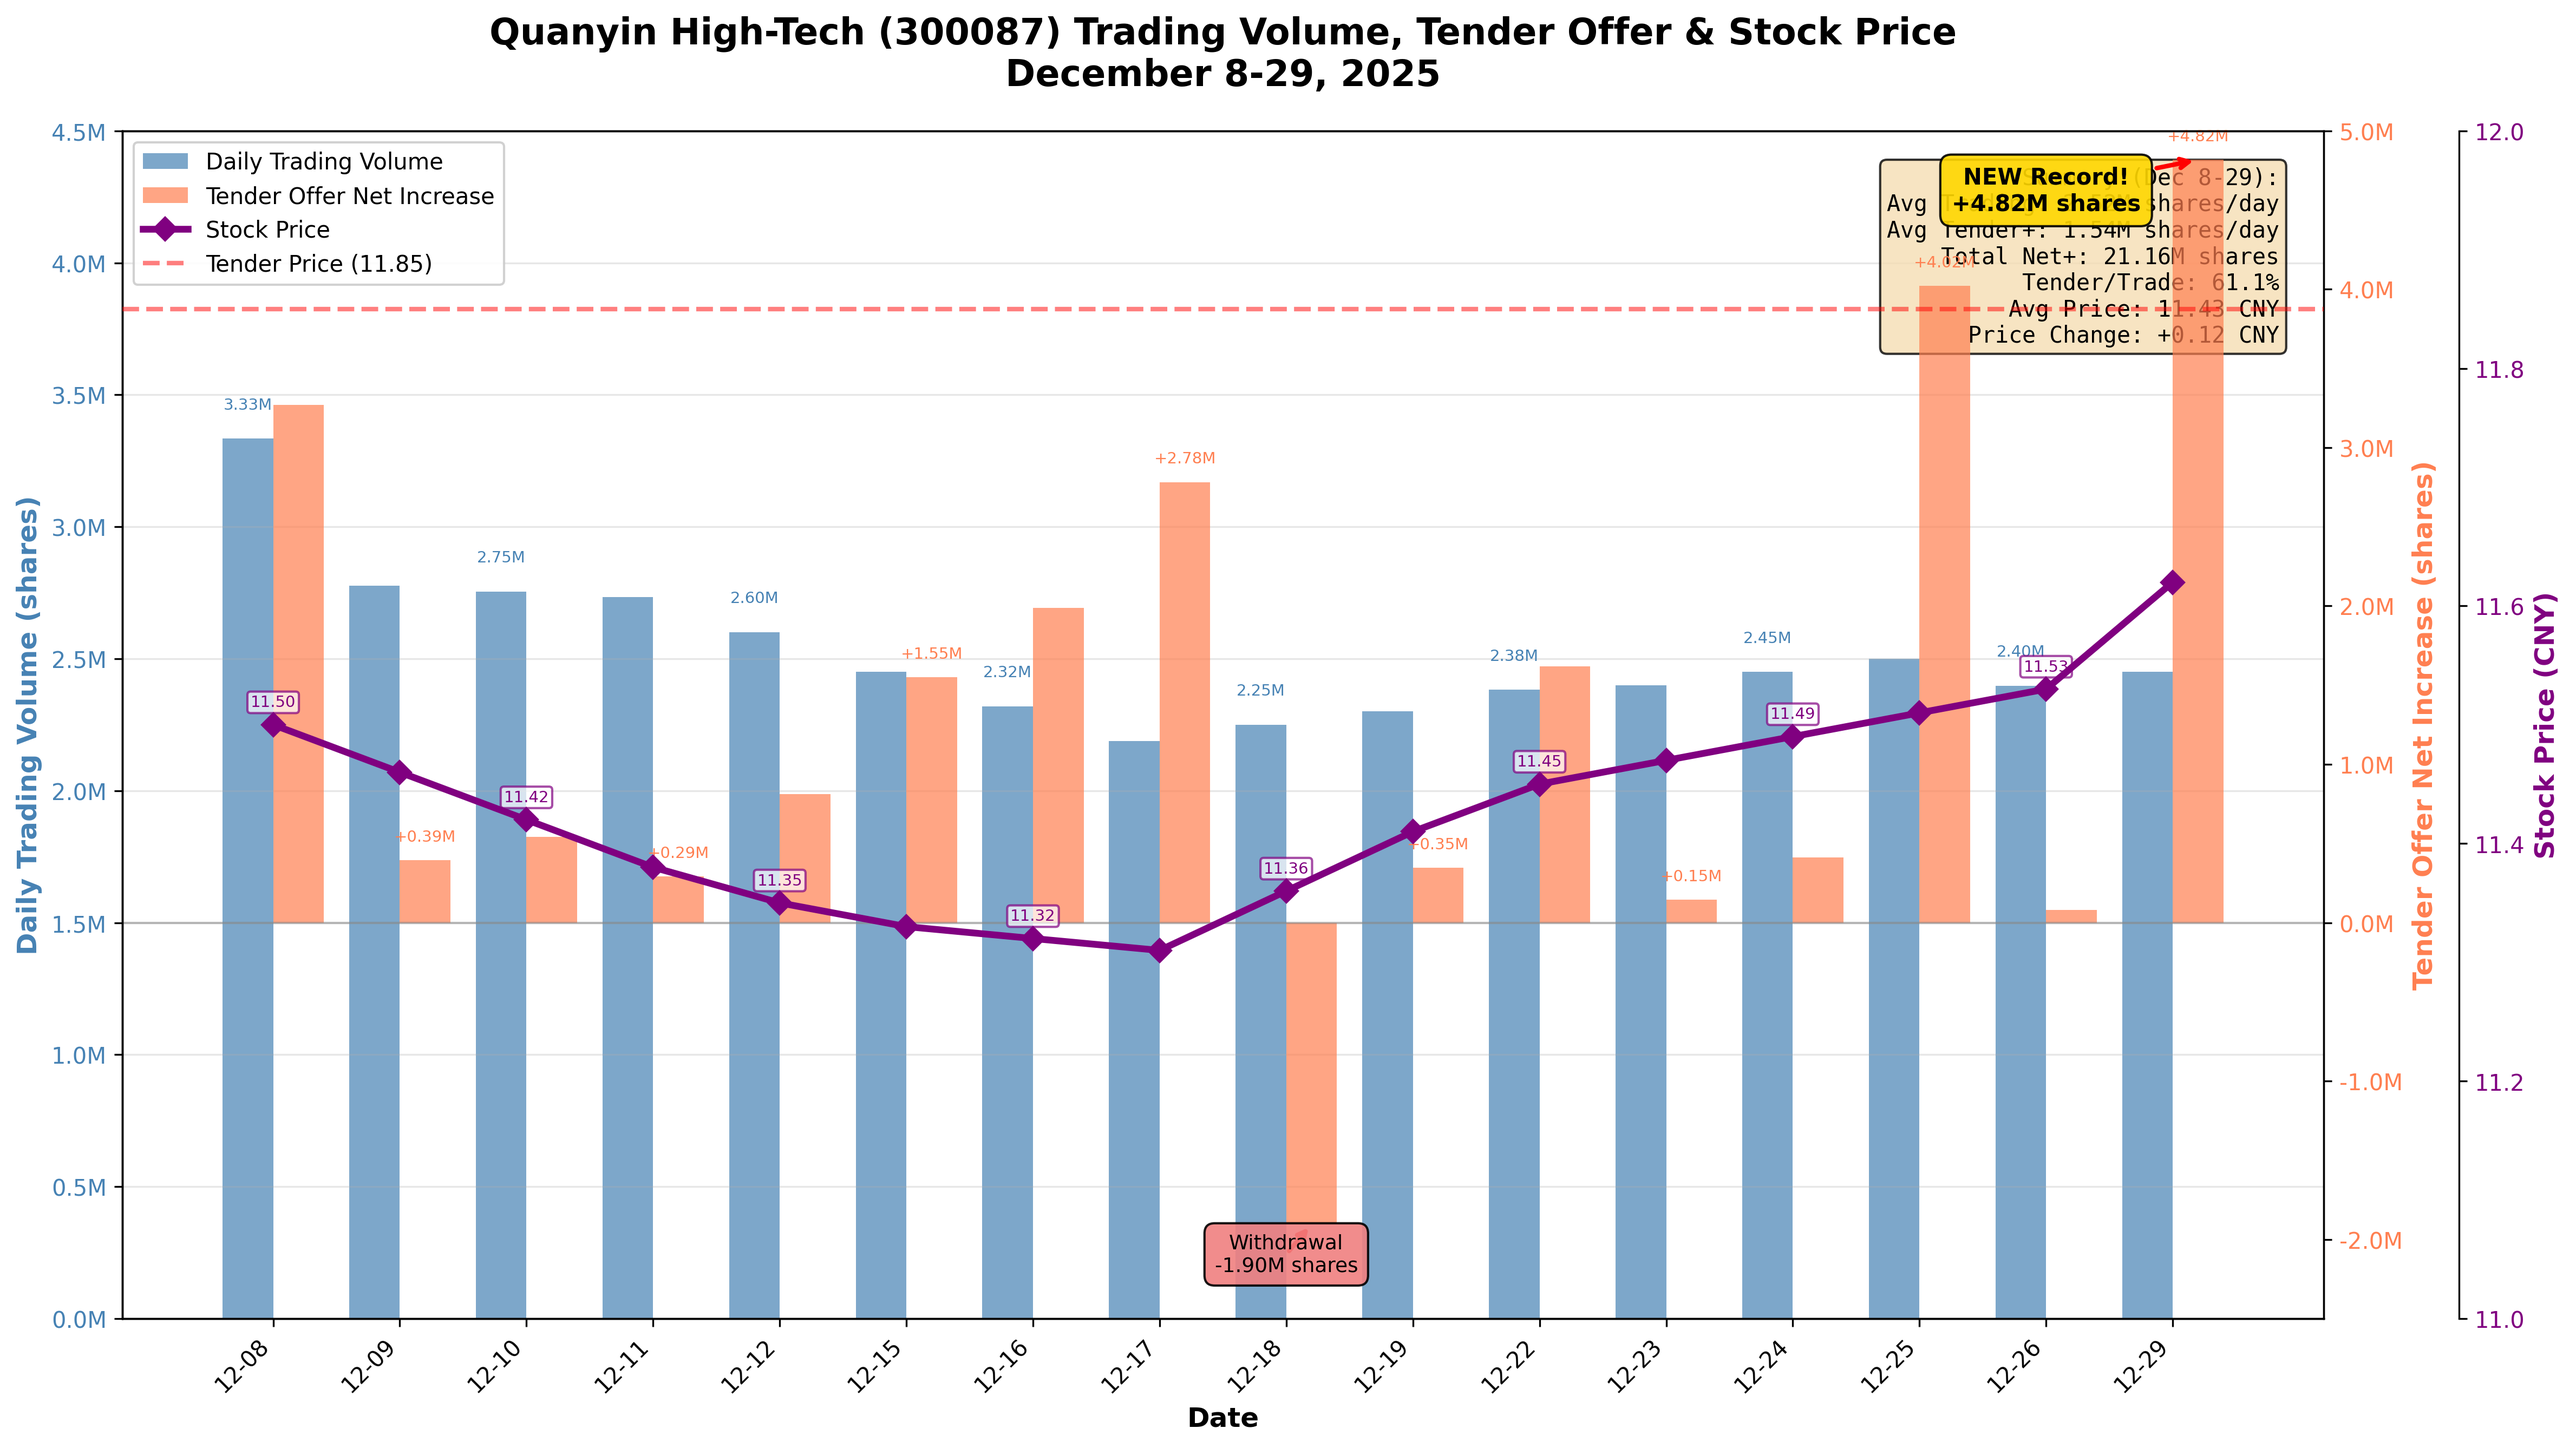
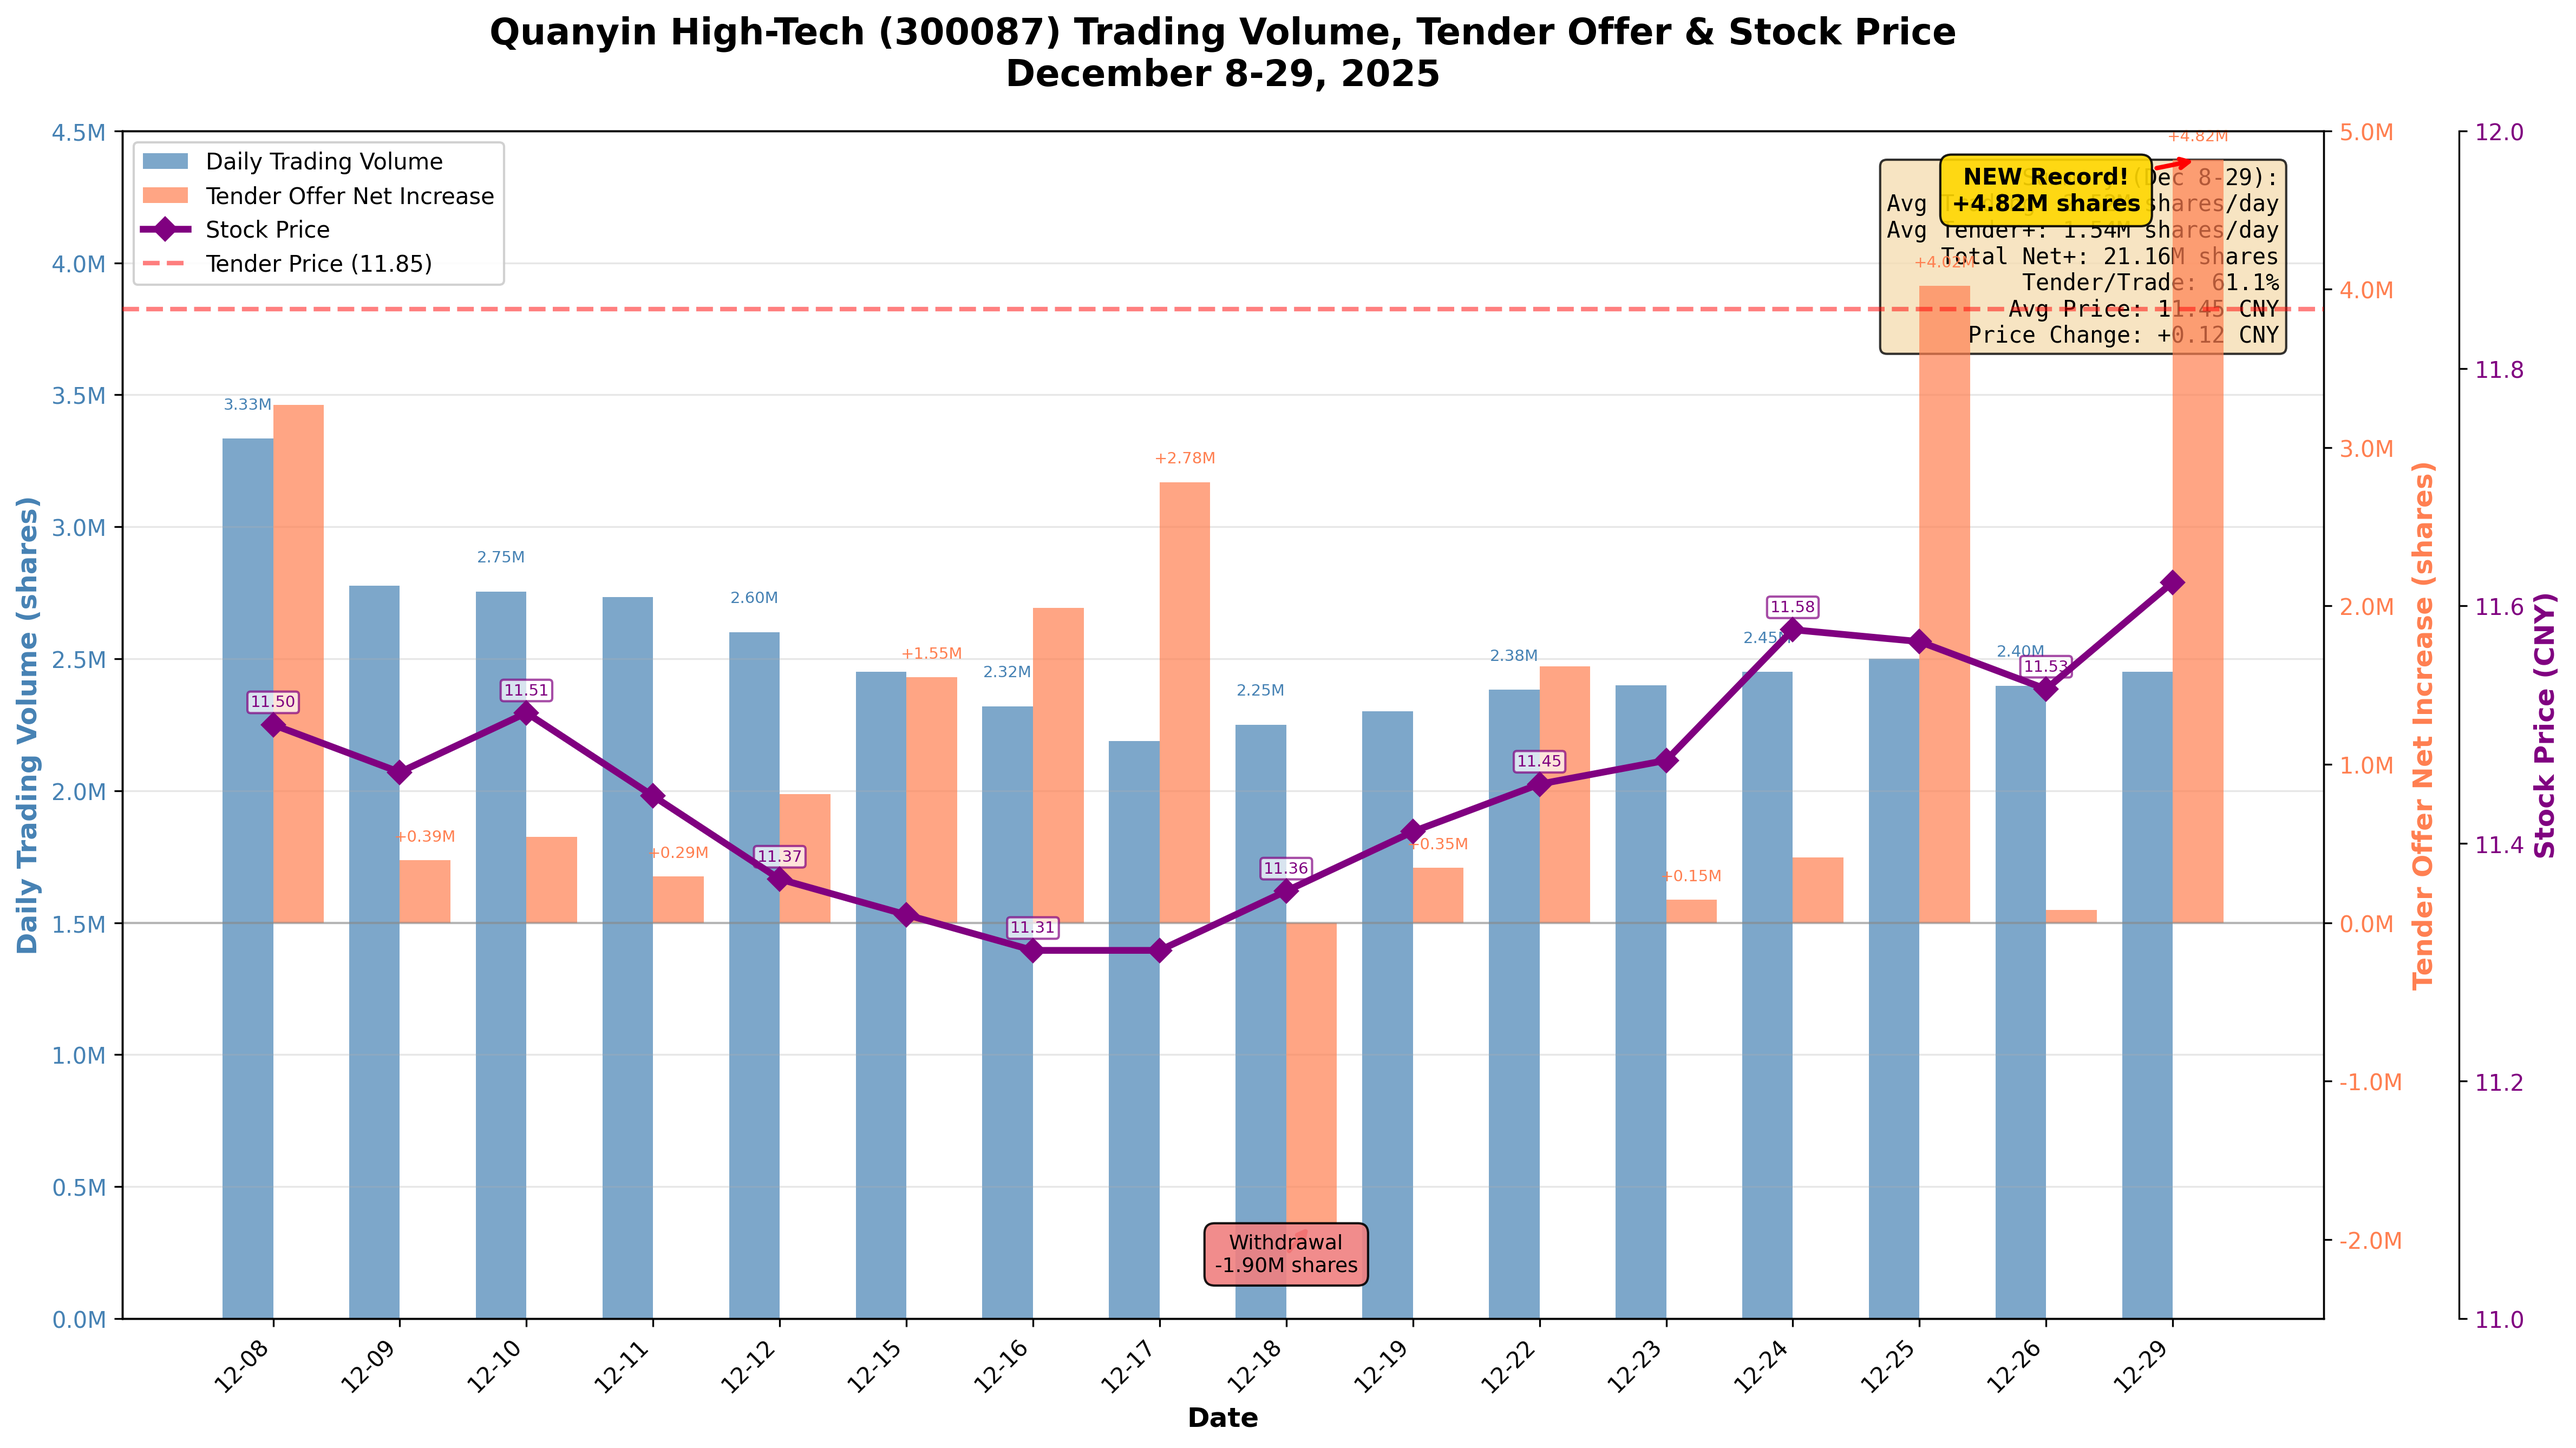
使用真实收盘价数据替代插值估算
- 从市场数据截图(1208-1229-data.png)提取所有交易日的实际收盘价
- 移除所有插值估算的股价数据
- 更新股价对比图表和交易量对比图表
- 数据源：深交所官方数据2025-12-08至2025-12-29

主要股价变化：
- 最低点：12-16/12-17的11.31元
- 最高点：12-29的11.62元
- 期间涨幅：11.50 → 11.62 (+1.04%)

Changed region(s): [[0.1555, 0.4654, 0.4355, 0.6826], [0.6532, 0.4034, 0.8087, 0.5275]]

diff --git a/05_quanyin_tender_offer/generate_price_chart.py b/05_quanyin_tender_offer/generate_price_chart.py
@@ -31,26 +31,25 @@ dates = [
     '2025-12-29'
 ]
 
-# Closing prices (actual + interpolated for missing dates)
-# Actual prices: 12-08: 11.50, 12-09: 11.46, 12-17: 11.31, 12-19: 11.41, 12-22: 11.45, 12-26: 11.53, 12-29: 11.62
-# Interpolated for: 12-10, 12-11, 12-12, 12-15, 12-16, 12-18, 12-23, 12-24, 12-25
+# Closing prices - all actual data from market
+# Source: Stock exchange data screenshot (1208-1229-data.png)
 closing_prices = [
-    11.50,  # 12-08 actual
-    11.46,  # 12-09 actual
-    11.42,  # 12-10 interpolated
-    11.38,  # 12-11 interpolated
-    11.35,  # 12-12 interpolated
-    11.33,  # 12-15 interpolated
-    11.32,  # 12-16 interpolated
-    11.31,  # 12-17 actual
-    11.36,  # 12-18 interpolated
-    11.41,  # 12-19 actual
-    11.45,  # 12-22 actual
-    11.47,  # 12-23 interpolated
-    11.49,  # 12-24 interpolated
-    11.51,  # 12-25 interpolated
-    11.53,  # 12-26 actual
-    11.62   # 12-29 actual
+    11.50,  # 12-08
+    11.46,  # 12-09
+    11.51,  # 12-10
+    11.44,  # 12-11
+    11.37,  # 12-12
+    11.34,  # 12-15
+    11.31,  # 12-16
+    11.31,  # 12-17
+    11.36,  # 12-18
+    11.41,  # 12-19
+    11.45,  # 12-22
+    11.47,  # 12-23
+    11.58,  # 12-24
+    11.57,  # 12-25
+    11.53,  # 12-26
+    11.62   # 12-29
 ]
 
 # Completion ratio (from tender offer data)

diff --git a/05_quanyin_tender_offer/generate_volume_comparison_chart.py b/05_quanyin_tender_offer/generate_volume_comparison_chart.py
@@ -75,24 +75,25 @@ daily_tender_net_increase = [
     4817382     # 12-29: +4,817,382 (NEW RECORD!)
 ]
 
-# Closing prices (actual + interpolated for missing dates)
+# Closing prices - all actual data from market
+# Source: Stock exchange data screenshot (1208-1229-data.png)
 closing_prices = [
-    11.50,  # 12-08 actual
-    11.46,  # 12-09 actual
-    11.42,  # 12-10 interpolated
-    11.38,  # 12-11 interpolated
-    11.35,  # 12-12 interpolated
-    11.33,  # 12-15 interpolated
-    11.32,  # 12-16 interpolated
-    11.31,  # 12-17 actual
-    11.36,  # 12-18 interpolated
-    11.41,  # 12-19 actual
-    11.45,  # 12-22 actual
-    11.47,  # 12-23 interpolated
-    11.49,  # 12-24 interpolated
-    11.51,  # 12-25 interpolated
-    11.53,  # 12-26 actual
-    11.62   # 12-29 actual
+    11.50,  # 12-08
+    11.46,  # 12-09
+    11.51,  # 12-10
+    11.44,  # 12-11
+    11.37,  # 12-12
+    11.34,  # 12-15
+    11.31,  # 12-16
+    11.31,  # 12-17
+    11.36,  # 12-18
+    11.41,  # 12-19
+    11.45,  # 12-22
+    11.47,  # 12-23
+    11.58,  # 12-24
+    11.57,  # 12-25
+    11.53,  # 12-26
+    11.62   # 12-29
 ]
 
 # Convert date format
